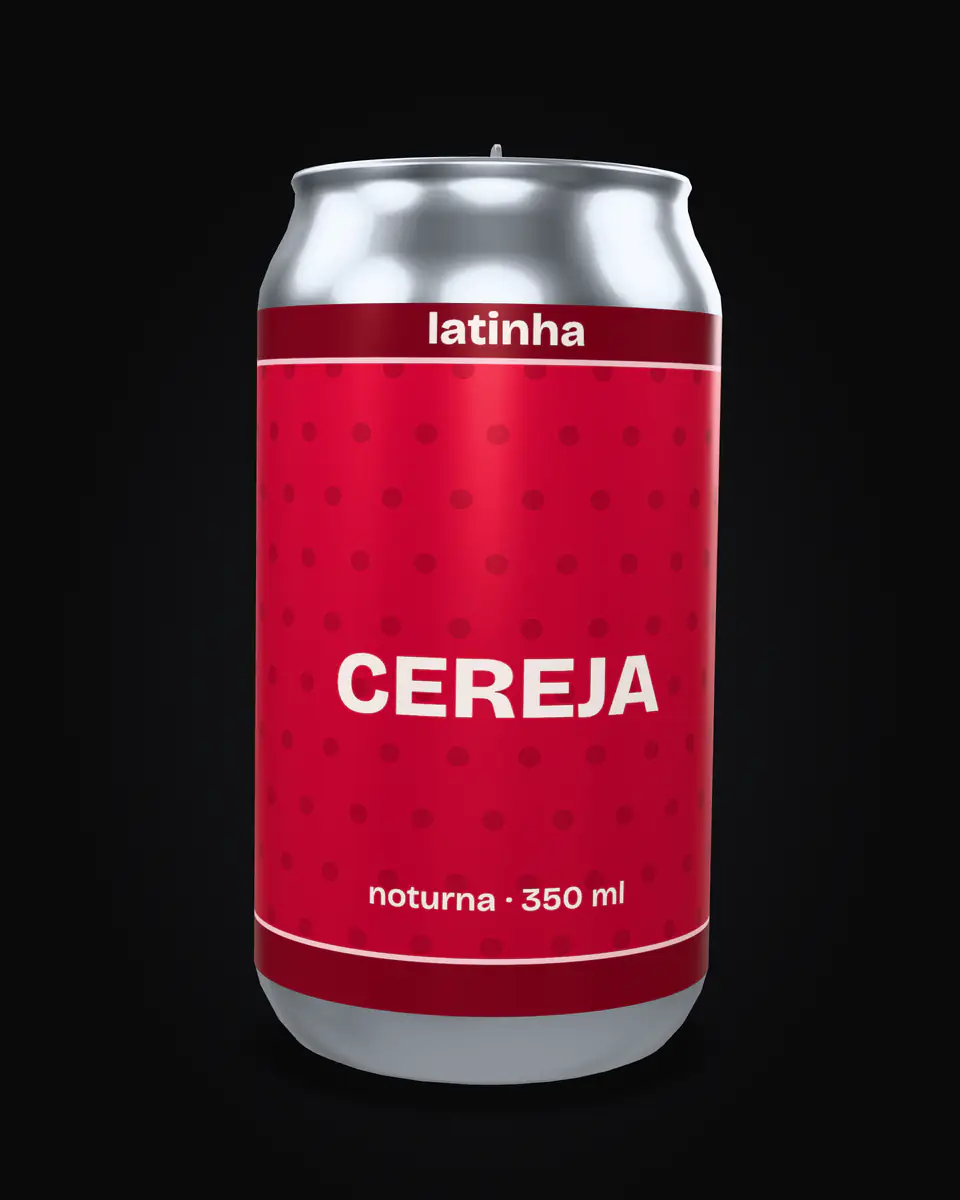
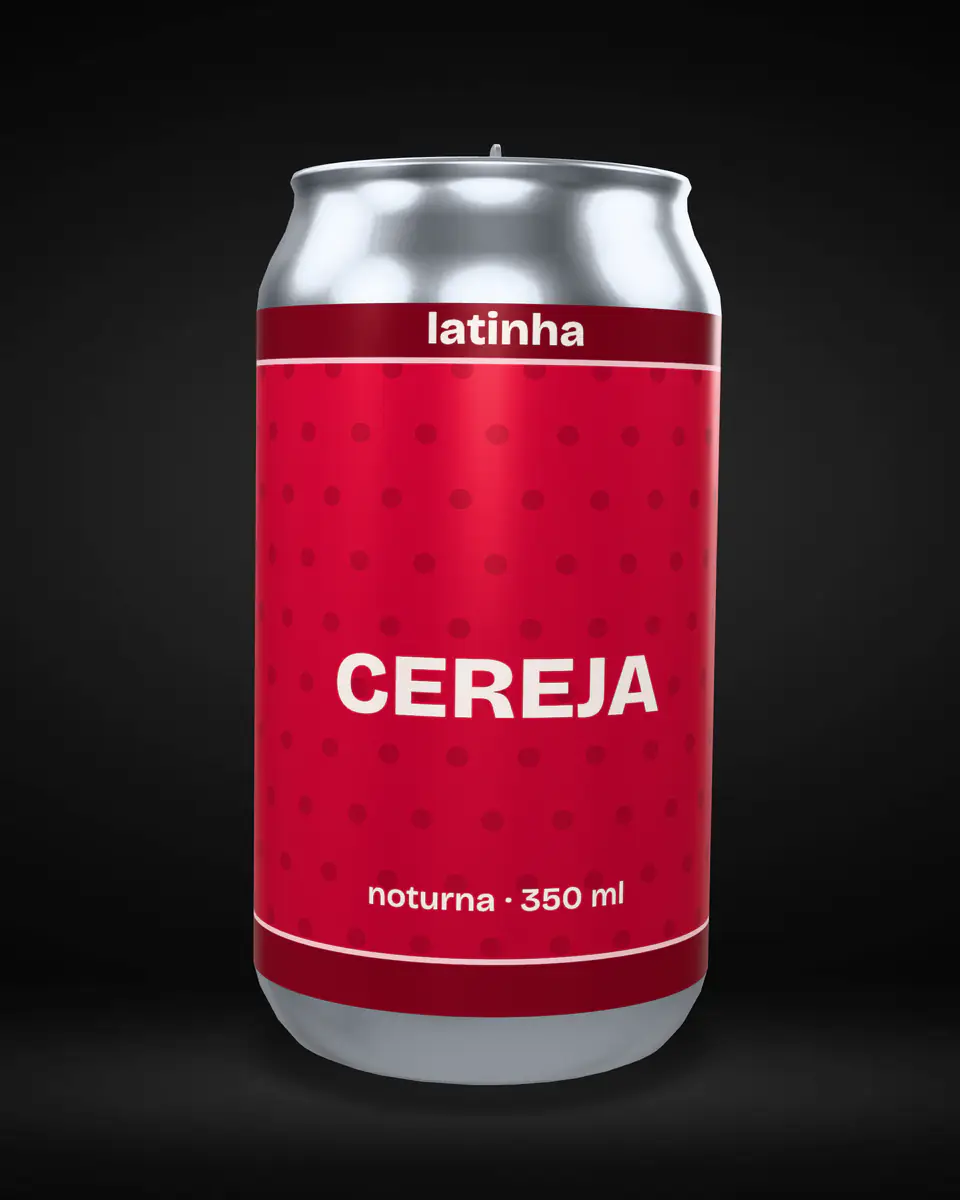
Fundo do heroi: parede escura de estudio (mesma imagem nos dois projetos)

diff --git a/src/styles/hero.css b/src/styles/hero.css
@@ -2,7 +2,9 @@
   position: relative; isolation: isolate; overflow: hidden;
   height: 100vh; height: 100svh; color: var(--ink); transition: color 0.5s;
 }
-.hero-bg { position: absolute; inset: 0; z-index: -2; background: radial-gradient(ellipse at 50% 55%, #1a1b1f 0%, var(--bg) 62%); }
+/* fundo único dos dois projetos: parede escura de estúdio (com brilho no chão) */
+.hero-bg { position: absolute; inset: 0; z-index: -2; background: var(--bg); }
+.hero-bg img { width: 100%; height: 100%; object-fit: cover; object-position: 50% 60%; }
 
 
 

diff --git a/index.html b/index.html
@@ -50,7 +50,7 @@
 
     <main id="conteudo">
       <section class="hero" id="topo" aria-labelledby="hero-title" data-hero>
-        <div class="hero-bg" aria-hidden="true"></div>
+        <div class="hero-bg" aria-hidden="true"><img src="/img/bg-1920.webp" srcset="/img/bg-960.webp 960w, /img/bg-1920.webp 1920w" sizes="100vw" width="1920" height="1280" alt="" decoding="async" /></div>
 
         <div class="can-stage">
           <model-viewer

diff --git a/README.md b/README.md
@@ -22,7 +22,7 @@ justificada por um número medido antes e depois.
 
 > **v2 (24/11/2026):** a página perdeu os elementos 3D flutuantes (frutas/estrelas), as bolhas, o fundo que mudava de cor por tema e o estúdio "Sua lata"
 > (nome, cor, envio de imagem). O que sobrou é a lata e a troca de arte. As seções "estúdio", "elementos" e "bolhas" abaixo descrevem a v0/v1 e continuam no histórico do git.
-> Números da v2 (mediana de 3, Lighthouse 13.6): celular **97 · 100 · 100 · 100** (TBT 197 ms, 0,53 MB), desktop **100 · 100 · 100 · 100** (0,48 MB); com o mouse
+> Números da v2 (mediana de 3, Lighthouse 13.6): celular **96 · 100 · 100 · 100** (TBT 220 ms, 0,53 MB), desktop **100 · 100 · 100 · 100** (0,49 MB); com o mouse
 > mexendo, **0 recálculos de estilo/s no desktop (4 no celular)** e **9,4%** da thread principal (8,9% no celular). Só `can.glb` (91 KB) vai para a rede.
 
 ## Como rodar

diff --git a/CLAUDE.md b/CLAUDE.md
@@ -40,3 +40,4 @@ Estudo de portfólio: o README é a vitrine (decisões + números antes/depois).
   "Sua lata": a única opção é a arte (o tema). Os módulos `elements.js`, `bubbles.js`, `customizer.js` e os modelos de fruta/estrela foram removidos (histórico do git tem tudo).
 - O README e as seções acima deste bloco que falam de elementos, bolhas, estúdio e `bg` por tema descrevem a v0/v1.
 - Hero com `height: 100vh` exato (sem altura mínima). Nenhuma marca real de bebida em nada.
+- Fundo do herói: `public/img/bg-960.webp` e `bg-1920.webp` (parede escura de estúdio) num `<img>` com `srcset`; mesmo arquivo do `copos-laser`.

diff --git a/reports/images.md b/reports/images.md
@@ -1,7 +1,7 @@
 | Imagem | PNG original (2x) | WebP 480 | WebP 960 |
 |---|---:|---:|---:|
-| card-cereja | 1149.9 KB | 7.9 KB | 18.2 KB |
-| card-limao | 1220.3 KB | 8.5 KB | 19.6 KB |
-| card-menta | 1259.0 KB | 7.6 KB | 17.9 KB |
-| card-mirtilo | 1302.9 KB | 10.2 KB | 22.9 KB |
-| og (compartilhamento) | 256.6 KB | 35.0 KB (JPG 1200) | |
+| card-cereja | 767.3 KB | 8.3 KB | 18.6 KB |
+| card-limao | 832.3 KB | 8.8 KB | 20.1 KB |
+| card-menta | 867.3 KB | 7.8 KB | 18.5 KB |
+| card-mirtilo | 911.9 KB | 10.5 KB | 23.7 KB |
+| og (compartilhamento) | 143.8 KB | 38.0 KB (JPG 1200) | |

diff --git a/reports/lighthouse-v2.md b/reports/lighthouse-v2.md
@@ -2,6 +2,6 @@
 
 | | Performance | Acessibilidade | Boas Práticas | SEO | FCP | LCP | TBT | CLS | Peso | Requisições |
 |---|---:|---:|---:|---:|---:|---:|---:|---:|---:|---:|
-| Celular | 97 | 100 | 100 | 100 | 0.9 s | 0.9 s | 197 ms | 0.000 | 0.53 MB | 20 |
-| Desktop | 100 | 100 | 100 | 100 | 0.3 s | 0.3 s | 2 ms | 0.000 | 0.48 MB | 20 |
+| Celular | 96 | 100 | 100 | 100 | 0.8 s | 0.8 s | 220 ms | 0.000 | 0.53 MB | 21 |
+| Desktop | 100 | 100 | 100 | 100 | 0.3 s | 0.3 s | 0 ms | 0.000 | 0.49 MB | 21 |
 
